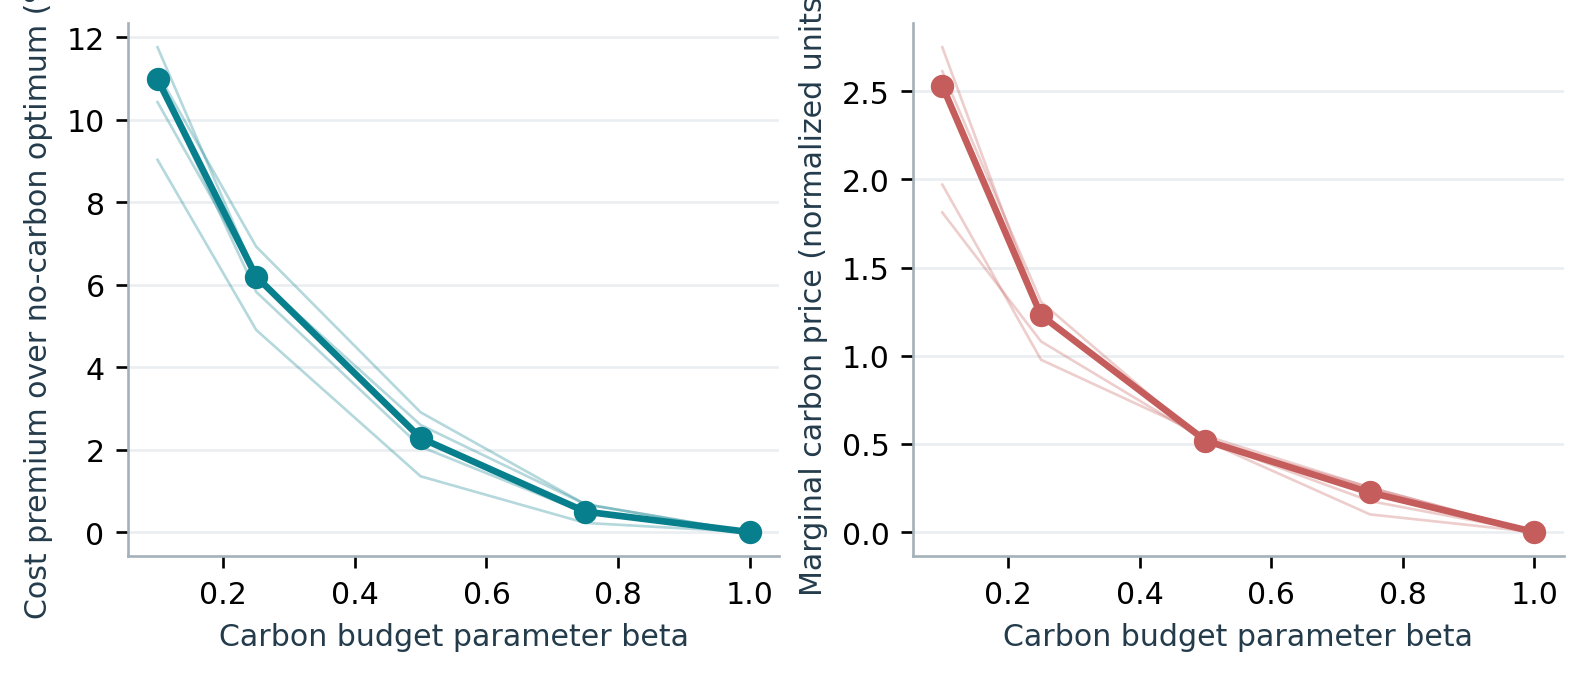
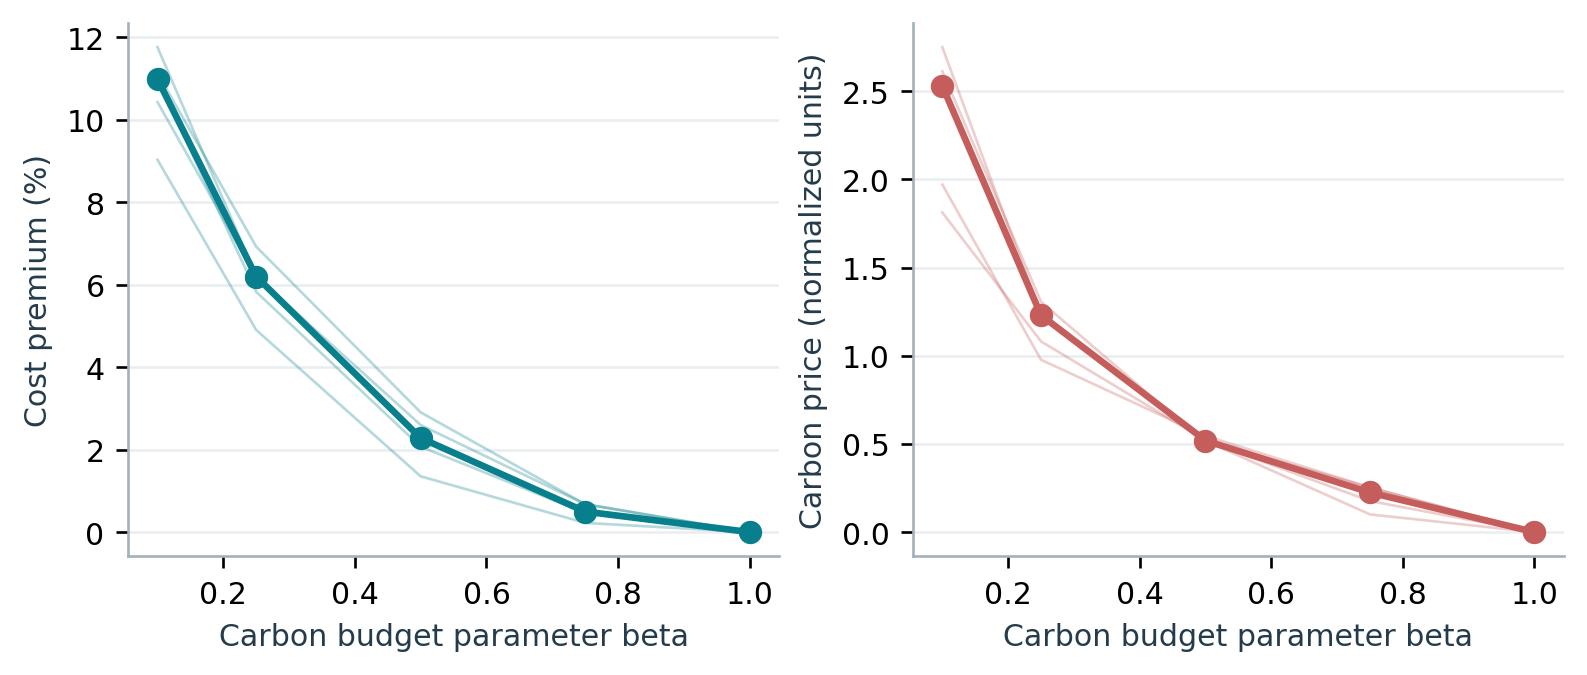
Improve carbon-frontier axis label legibility

Changed region(s): [[0.0, 0.0, 0.0309, 0.9022], [0.494, 0.0, 0.5249, 0.8711]]

diff --git a/network/analyze.py b/network/analyze.py
@@ -88,7 +88,7 @@ def main():
         premiums.append((vals(ss,'cost')/vals(ss,'unconstrained_cost')-1)*100); prices.append(vals(ss,'carbon_price'))
     premiums=np.array(premiums); prices=np.array(prices)
     fig,axes=plt.subplots(1,2,figsize=(6.5,2.7),layout='constrained')
-    for ax,a,color,yl in zip(axes,[premiums,prices],['#087f8c','#c45d5b'],['Cost premium over no-carbon optimum (%)','Marginal carbon price (normalized units)']):
+    for ax,a,color,yl in zip(axes,[premiums,prices],['#087f8c','#c45d5b'],['Cost premium (%)','Carbon price (normalized units)']):
         for v in a: ax.plot(betas,v,color=color,alpha=.3,lw=.8)
         ax.plot(betas,np.median(a,axis=0),color=color,lw=2,marker='o'); ax.grid(True,axis='y')
         ax.set(xlabel='Carbon budget parameter beta',ylabel=yl)

diff --git a/README.md b/README.md
@@ -64,7 +64,7 @@ Timing includes setup, iterations, and checks; PDLP model building is included. 
 | `summary.json`, `index.json` | Aggregated results and experiment index |
 | `environment.json`, `source_hashes.json` | Recorded runtime environment and benchmark source identities |
 
-`SHA256SUMS.json` lists the publication package's file hashes. `network/results/source_hashes.json` retains the original experiment source identities. Algorithm source, frozen instances, and numerical result files are unchanged from the supplied package.
+`SHA256SUMS.json` lists the publication package's file hashes. `network/results/source_hashes.json` retains the original experiment source identities. Algorithm source, frozen instances, and numerical result files are unchanged from the supplied package. The carbon-frontier figure's axis labels were shortened for legibility; its empirical curves are unchanged.
 
 ## Interpretation and limits
 
